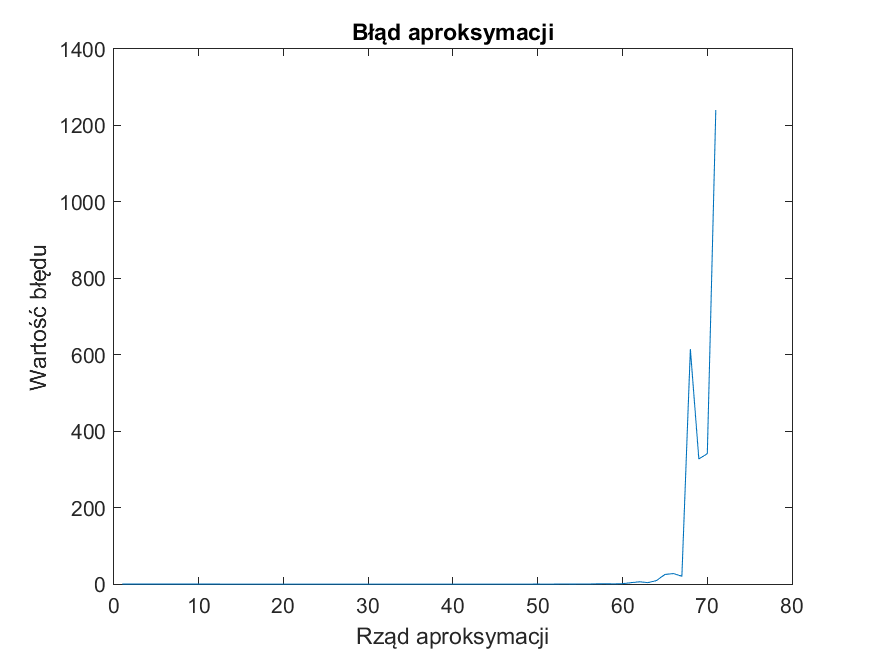
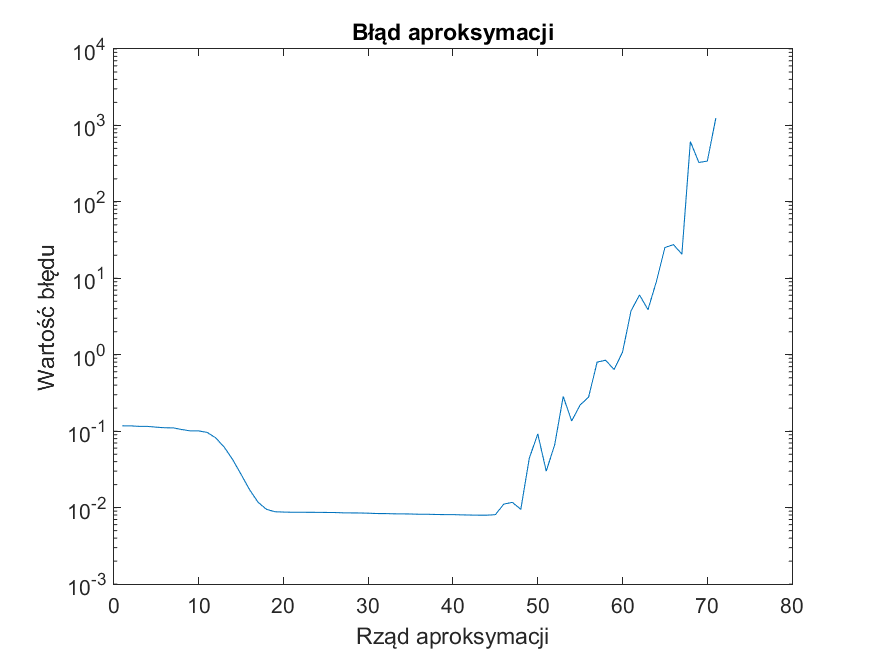
u

diff --git a/MN/lab6/zadania.m b/MN/lab6/zadania.m
@@ -76,7 +76,7 @@ for N = 1:71
 end
 
 figure
-plot(1:71, err)
+semilogy(1:71, err)
 title('Błąd aproksymacji')
 xlabel('Rząd aproksymacji')
 ylabel('Wartość błędu')
@@ -126,7 +126,7 @@ for N = 1:71
 end
 
 figure
-plot(1:71, err)
+semilogy(1:71, err)
 title('Błąd aproksymacji')
 xlabel('Rząd aproksymacji')
 ylabel('Wartość błędu')
